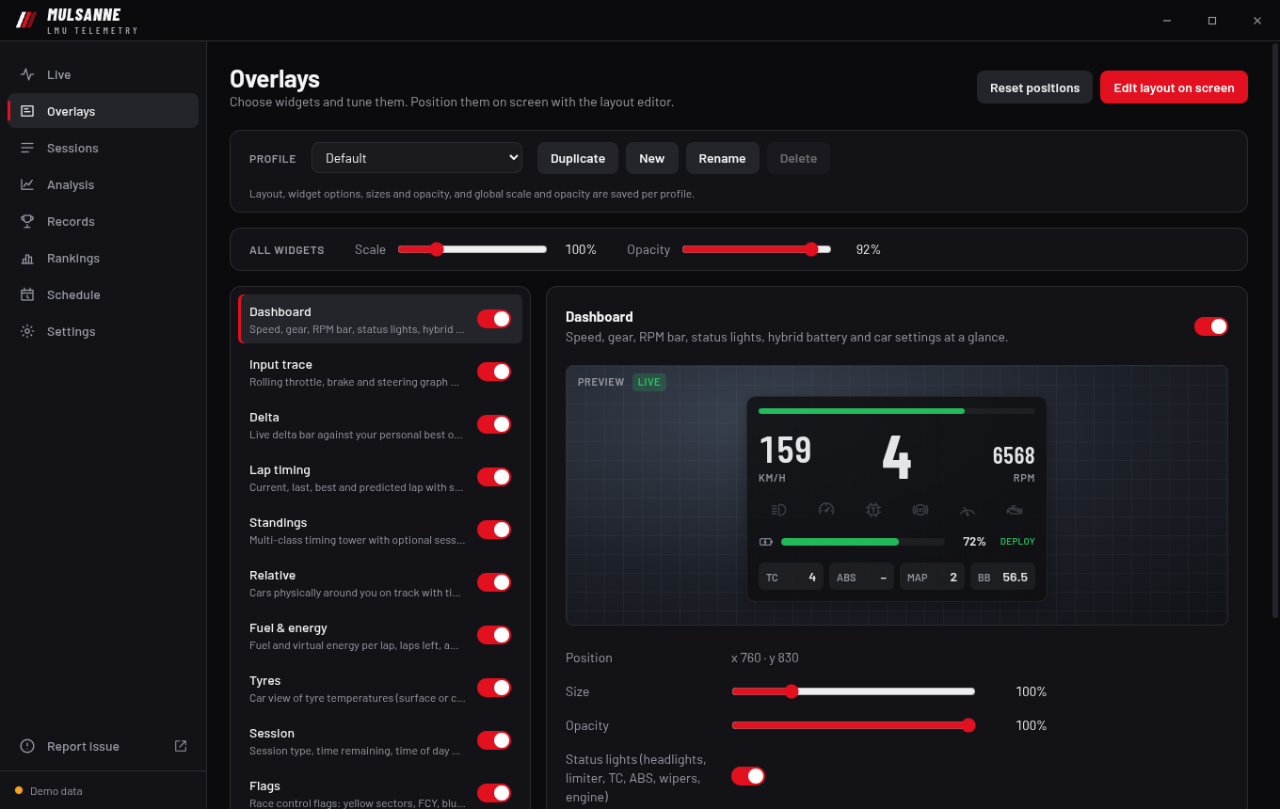
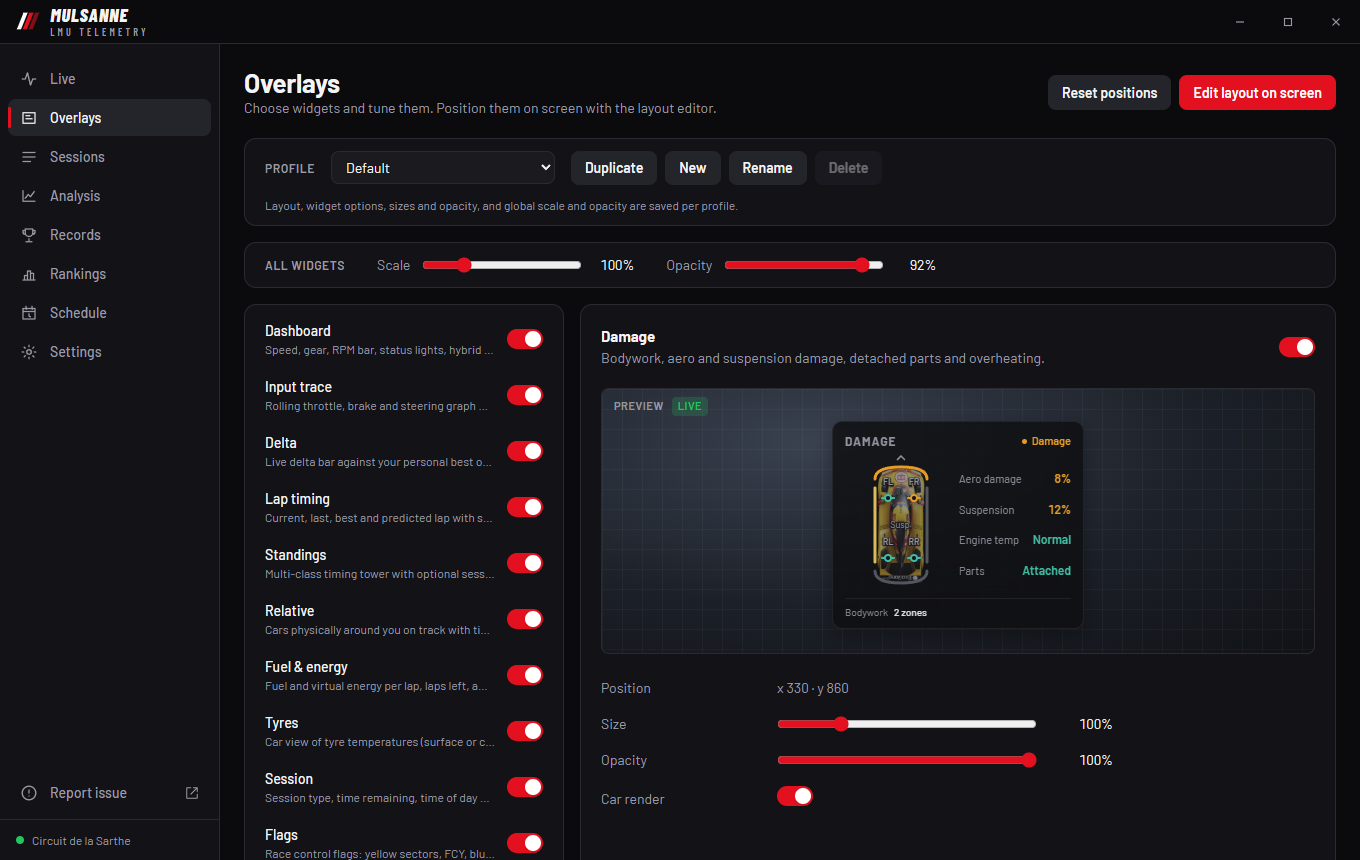
docs: Le Mans demo grid and new screenshots
- The demo runs a Le Mans grid of WEC drivers in their own cars, with Le
  Mans winners in LMP3 and Robert Kubica in the #83 Ferrari, starting at
  16:00 like the race
- ?screenshot in the browser preview shows the demo as a real session at
  Circuit de la Sarthe, without demo labels
- export_fixtures also writes a shared live timing frame and map
- New README screenshots with the new default layout

diff --git a/src/dev/mock.ts b/src/dev/mock.ts
@@ -2,7 +2,8 @@
 // be developed in a normal browser (`pnpm dev`, then open http://localhost:1420
 // or http://localhost:1420/#overlay; add ?nolive to simulate the game not running,
 // ?nolaps for a fresh install with nothing recorded, ?seen=0.6.0 to show the
-// changelog as if updating from that version, ?sharing to start with online features
+// changelog as if updating from that version, ?screenshot for website screenshots
+// (no demo labels), ?sharing to start with online features
 // on and live timing being shared, ?launches=2 to show the GitHub
 // star popup as if the app had been opened that many times before).
 // Generate fixtures first:
@@ -17,8 +18,13 @@ export async function install() {
     console.warn("dev mock: fixtures missing, run the export_fixtures example");
     return;
   }
-  const fx = await res.json();
   const params = new URLSearchParams(location.search);
+  // ?screenshot presents the demo as a real session at Le Mans, for website and
+  // README screenshots: no "Demo data" labels and the game's own track name.
+  let text = await res.text();
+  if (params.has("screenshot"))
+    text = text.replaceAll('"source":"demo"', '"source":"lmu"').replaceAll("Le Mans (Demo)", "Circuit de la Sarthe");
+  const fx = JSON.parse(text);
   const sharing = params.has("sharing");
   let config: unknown = {
     ...(sharing && { online: { enabled: true } }),
@@ -60,7 +66,7 @@ export async function install() {
         case "get_preview_snapshot":
           return fx.frames[previewFrame++ % fx.frames.length];
         case "get_status":
-          return { demo: true, editMode, overlayVisible: true, gameFocused: false, experimentalLinux: false, dataDir: "C:\\mock" };
+          return { demo: !params.has("screenshot"), editMode, overlayVisible: true, gameFocused: false, experimentalLinux: false, dataDir: "C:\\mock" };
         case "list_monitors":
           return [
             { name: "\\\\.\\DISPLAY1", width: 2560, height: 1440, x: 0, y: 0, primary: true },
@@ -98,8 +104,8 @@ export async function install() {
             starts: [0, 1, 2, 3].map((i) => at(first + i * every)).filter((t) => t < at(0) + 4 * 3_600_000),
           });
           const races = [
-            race("Logitech McLaren G Challenge Winter - Q2", "beginner", "Monza", "30 minutes", 5, 45),
-            race("LMP3 Fixed", "beginner", "Le Mans", "32 minutes", 15, 45),
+            race("Logitech McLaren G Challenge Winter - Q2", "beginner", "Monza", "30 minutes", 15, 45),
+            race("Hypercar Fixed", "beginner", "Le Mans", "32 minutes", 5, 45),
             race("LMGT3 Fixed", "beginner", "Fuji Wec 2023", "32 minutes", 25, 45),
             race("ELMS Sprint Trophy", "intermediate", "Spa Francorchamps", "44 minutes", 10, 60),
             race("LMGT3 Sprint Cup", "intermediate", "Laguna Seca", "44 minutes", 30, 60),
@@ -177,7 +183,7 @@ export async function install() {
         case "leaderboard": {
           const q = args.query;
           const pb = (fx.personalBests as any[]).find((b) => b.track === q.track && b.carClass === q.carClass);
-          const names = ["A. Laurent", null, "K. Tanaka", "J. Smith", null, "L. Novak", "P. Silva", "D. Müller"];
+          const names = ["T. Kristensen", null, "J. Ickx", "F. Alonso", null, "A. McNish", "S. Buemi", "D. Bell"];
           const entries = names.map((driver, i) => {
             const t = (pb?.lapTime ?? 100) - 1.234 + i * 0.41;
             return {

diff --git a/src-tauri/src/demo.rs b/src-tauri/src/demo.rs
@@ -177,30 +177,43 @@ pub struct DemoSim {
 impl DemoSim {
     pub fn new() -> Self {
         let classes = [("Hypercar", 1.0), ("LMP2", 0.93), ("LMP3", 0.88), ("LMGT3", 0.85)];
-        let names = [
-            "A. Laurent", "M. Rossi", "K. Tanaka", "J. Smith", "L. Novak", "P. Silva", "D. Müller", "S. Kowalski",
-            "R. Jensen", "T. Dubois", "E. García", "N. Ivanov", "C. Brown", "F. Moreau", "H. Schmidt", "Y. Sato",
-            "O. Nilsen", "G. Ricci", "B. Wilson", "V. Petrov",
-        ];
-        let cars = [
-            ["Toyota GR010", "Porsche 963", "Ferrari 499P", "Cadillac V-Series.R", "BMW M Hybrid V8", "Alpine A424"],
-            ["Oreca 07", "Oreca 07", "Oreca 07", "Oreca 07", "Oreca 07", "Oreca 07"],
-            ["Ligier JS P325", "Duqueine D09", "Ginetta G61-LT-P3 Evo", "ADESS AD25", "Ligier JS P325", "Duqueine D09"],
-            ["Porsche 911 GT3 R", "Ferrari 296 GT3", "BMW M4 GT3", "Corvette Z06 GT3.R", "Aston Martin Vantage", "Lexus RC F GT3"],
+        // A Le Mans grid: WEC regulars in their own cars, and Le Mans legends
+        // having a go in LMP3. The player is Kubica in the #83 Ferrari.
+        let roster = [
+            ("K. Kobayashi", 7, "Toyota GR010"),
+            ("K. Estre", 6, "Porsche 963"),
+            ("A. Pier Guidi", 51, "Ferrari 499P"),
+            ("E. Bamber", 38, "Cadillac V-Series.R"),
+            ("S. van der Linde", 20, "BMW M Hybrid V8"),
+            ("O. Jarvis", 22, "Oreca 07"),
+            ("P. Fittipaldi", 28, "Oreca 07"),
+            ("F. Albuquerque", 23, "Oreca 07"),
+            ("B. Hanley", 10, "Oreca 07"),
+            ("D. Heinemeier Hansson", 34, "Oreca 07"),
+            ("J. Ickx", 11, "Ligier JS P325"),
+            ("T. Kristensen", 15, "Duqueine D09"),
+            ("D. Bell", 17, "Ginetta G61-LT-P3 Evo"),
+            ("H. Pescarolo", 9, "ADESS AD25"),
+            ("E. Pirro", 5, "Ligier JS P325"),
+            ("V. Rossi", 46, "BMW M4 GT3"),
+            ("R. Lietz", 92, "Porsche 911 GT3 R"),
+            ("A. Rovera", 21, "Ferrari 296 GT3"),
+            ("B. Keating", 33, "Corvette Z06 GT3.R"),
+            ("I. James", 27, "Aston Martin Vantage"),
         ];
         let track = Track::generate();
         let mut opponents = Vec::new();
-        for (i, name) in names.iter().enumerate() {
-            let class_idx = i * classes.len() / names.len();
+        for (i, &(name, number, car)) in roster.iter().enumerate() {
+            let class_idx = i * classes.len() / roster.len();
             let (class, pace) = classes[class_idx];
             let pace = pace * (0.985 + (i as f64 * 0.37).sin().abs() * 0.025);
             opponents.push(Opponent {
                 id: i as i32 + 2,
                 driver: name.to_string(),
-                vehicle: format!("#{} {}", 10 + i * 3, cars[class_idx][i % 6]),
+                vehicle: format!("#{number} {car}"),
                 class,
                 pace,
-                progress: track.length * (1.0 - i as f64 / names.len() as f64) * 0.97,
+                progress: track.length * (1.0 - i as f64 / roster.len() as f64) * 0.97,
                 laps: 0,
                 best: 0.0,
                 last: 0.0,
@@ -503,7 +516,7 @@ impl DemoSim {
                 end_et: SESSION_LENGTH,
                 time_remaining: remaining,
                 max_laps: i32::MAX,
-                time_of_day: 14.0 * 3600.0 + self.time,
+                time_of_day: 16.0 * 3600.0 + self.time, // the Le Mans start time
                 yellow_flag_state: 0,
                 sector_yellow: [false; 3],
                 sector_flags_raw: [11; 3],

diff --git a/src-tauri/examples/export_fixtures.rs b/src-tauri/examples/export_fixtures.rs
@@ -56,5 +56,13 @@ fn main() {
         "filters": db.filters().unwrap(),
     });
     std::fs::write(out.join("fixtures.json"), serde_json::to_string(&fixtures).unwrap()).unwrap();
+
+    // One shared live timing frame and map, for previewing mulsanne.xyz/live
+    let track_map = db.track_map(lm_overlay_lib::demo::TRACK_NAME).unwrap().expect("demo track map");
+    let live = json!({
+        "frame": lm_overlay_lib::live_share::frame(frames.last().unwrap()),
+        "map": lm_overlay_lib::live_share::map(&track_map),
+    });
+    std::fs::write(out.join("live.json"), serde_json::to_string(&live).unwrap()).unwrap();
     println!("{} frames, {} laps", frames.len(), laps.len());
 }

diff --git a/src-tauri/src/lib.rs b/src-tauri/src/lib.rs
@@ -4,7 +4,7 @@ mod damage;
 pub mod db;
 pub mod demo;
 mod engine;
-mod live_share;
+pub mod live_share;
 #[cfg(target_os = "linux")]
 mod viewport;
 pub mod lmu;

diff --git a/README.md b/README.md
@@ -22,7 +22,7 @@ Website: [mulsanne.xyz](https://mulsanne.xyz)
 
 ## Screenshots
 
-<img alt="Mulsanne overlay with standings, relative gaps, fuel, tyres and a track map" src="docs/screenshots/overlay.png">
+<img alt="Mulsanne overlay with standings, relative gaps, fuel, tyres and a track map" src="docs/screenshots/overlay.jpg">
 
 <details>
 <summary><strong>More screenshots</strong></summary>
@@ -35,7 +35,7 @@ Website: [mulsanne.xyz](https://mulsanne.xyz)
 
 </details>
 
-Screenshots use the built-in demo data.
+Screenshots use the built-in demo data, shown as a session at Le Mans (`?screenshot` in the browser preview), with car renders from a Le Mans Ultimate install.
 
 ## Use
 
